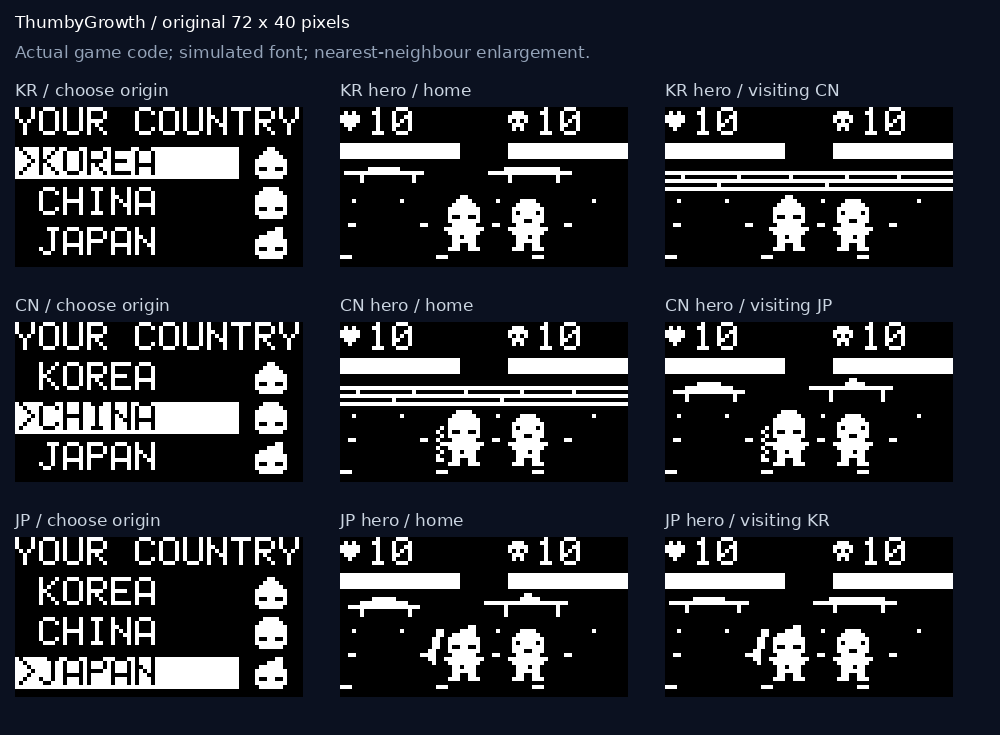
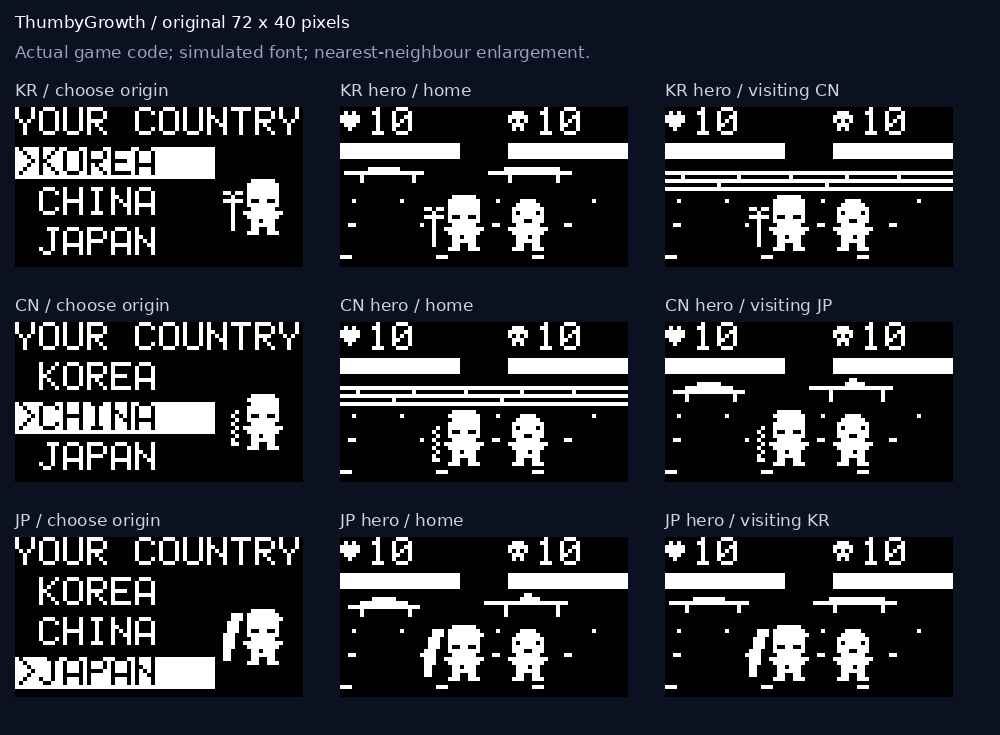
Round hero heads and distinguish long hair with bow, braid and ponytail

diff --git a/micropython/Thumby/ThumbyGrowth/ThumbyGrowth.py b/micropython/Thumby/ThumbyGrowth/ThumbyGrowth.py
@@ -17,9 +17,9 @@ from rules import (update_state, encode_save_data, decode_save_data,
 from scene_art import SCENE_BITMAPS
 
 # Shared 10x14 period fighters; simulation collision remains 6x7.
-HERO_HEADS = ((0x30,0x78,0xfc,0x1fe,0x1fe,0x132,0x1fe,0xfc),
-              (0x78,0xfc,0x1fe,0x1fe,0x1fe,0x132,0x1fe,0xfc),
-              (0xc,0x3c,0xfc,0x1fe,0x1fe,0x132,0x1fe,0xfc))
+HERO_HEADS = ((0xfc,0x1fe,0x1fe,0x1fe,0x1fe,0x132,0x1fe,0xfc),
+              (0xfc,0x1fe,0xfe,0x1fe,0x1fe,0x132,0x1fe,0xfc),
+              (0xfc,0x1fe,0x1ff,0x1fe,0x1fe,0x132,0x1fe,0xfc))
 HERO_HEAD = HERO_HEADS[0]
 FOE_HEAD = (0x0,0x78,0xfc,0x1fe,0x17a,0x1fe,0x1ce,0xfc)
 BODY_ROWS = (0x3ff,0x1fe,0xdc,0xfc,0xcc,0x1ce)
@@ -167,18 +167,23 @@ def fighter_positions(state,camera):
 
 
 def draw_hero_hair(display,region,x,y,rightward):
-    if region==0: return  # Topknot is already in the head rows.
     def rect(offset,dy,width,height,color=1):
         left=x-2-offset-width if rightward else x+8+offset
         scene_rect(display,left,y+dy,width,height,color)
-    rect(0,-6,4,12,0)
-    if region==1:
+    rect(0,-6,5,12,0)
+    if region==0:
+        # Long tied hair; a small butterfly bow distinguishes the daenggi.
+        rect(2,-2,1,8)
+        for dy in (-4,-2):
+            rect(0,dy,2,1);rect(3,dy,2,1)
+        rect(2,-3,1,1)
+    elif region==1:
         # A narrow long braid, alternating sides down to the shoulder.
-        for row in range(8): rect(row%2,-3+row,1,1)
-        rect(0,5,2,1)
+        for row in range(8): rect(1+row%2,-3+row,1,1)
+        rect(1,5,2,1)
     else:
-        # A higher, thicker ponytail with a shorter pointed end.
-        for offset,dy,width,height in ((0,-6,2,2),(1,-4,2,3),(2,-1,2,3),(2,2,1,1)):
+        # Thick high ponytail, hanging as long as the other two styles.
+        for offset,dy,width,height in ((0,-6,3,2),(1,-4,3,3),(2,-1,3,4),(3,3,2,3)):
             rect(offset,dy,width,height)
 
 
@@ -528,9 +533,11 @@ def draw_game(state):
             if selected:
                 display.drawFilledRectangle(0,y,72,8,1)
             display.drawText(('>' if selected else ' ')+('KOREA','CHINA','JAPAN')[region],0,y,0 if selected else 1)
-            if not state['route']:
-                display.drawFilledRectangle(56,y,16,8,0)
-                draw_rows(display,HERO_HEADS[region],59,y,10)
+        if not state['route']:
+            # A full figure shows the long back hair; the real route stays empty.
+            preview=dict(state,route=[choices[state['menu_selection']]])
+            display.drawFilledRectangle(50,10,22,30,0)
+            draw_fighter(display,preview,True,59,25)
         if len(choices)<3:
             display.drawText(status if status in ('SAVED','SAVE ERR') else 'B:SAVE',0,30,1)
     elif screen == 'safe' and state['progress'] >= GOAL_STAGES:

diff --git a/micropython/Thumby/ThumbyGrowth/test_hero_origin.py b/micropython/Thumby/ThumbyGrowth/test_hero_origin.py
@@ -23,6 +23,7 @@ class HeroOriginTests(unittest.TestCase):
             self.assertEqual(game.character_body(state,True),game.BODY_ROWS)
             stats.append((state['HP'],state['maxHP'],state['attack'],state['defense'],state['money']))
         self.assertEqual(len(set(game.HERO_HEADS)),3)
+        self.assertTrue(all(head[0]==0xfc and head[1]==0x1fe for head in game.HERO_HEADS))
         self.assertEqual(stats,[(10,10,2,0,0)]*3)
 
     def test_six_routes_and_save_load_preserve_first_country_not_destination(self):
@@ -55,18 +56,27 @@ class HeroOriginTests(unittest.TestCase):
                     else:pixels.difference_update(area)
                 versions.append(pixels)
             self.assertEqual({(61-x,y) for x,y in versions[0]},versions[1])
+            self.assertTrue(versions[0])
+            self.assertEqual(max(y for _,y in versions[0]),34)
             designs.append(frozenset(versions[0]))
         self.assertEqual(len(set(designs)),3)
         self.assertEqual(game.HERO_HEADS,original)
 
     def test_only_initial_country_menu_previews_different_hero_heads(self):
-        for state,expected in ((new_game_state(),3),(f.state(progress=5,route=[2]),0)):
+        for state,expected in ((new_game_state(),1),(f.state(progress=5,route=[2]),0)):
             with patch.object(game,'draw_rows',wraps=game.draw_rows) as rows:
                 game.draw_game(state)
                 heads=[c.args[1] for c in rows.call_args_list if c.args[1] in game.HERO_HEADS]
                 self.assertEqual(len(heads),expected)
         texts=[c.args[0] for c in game.thumby.display.drawText.call_args_list]
         self.assertIn('YOUR COUNTRY',texts);self.assertIn('NEXT COUNTRY',texts)
+        for region in range(3):
+            state=new_game_state();state['menu_selection']=region;before=deepcopy(state)
+            with patch.object(game,'draw_hero_hair',wraps=game.draw_hero_hair) as hair:
+                game.draw_game(state)
+                self.assertEqual(hair.call_args.args[1],region)
+            self.assertEqual(state,before)
+
 
     def test_damage_and_cutscenes_use_the_origin_hair(self):
         state=f.state(screen_state='battle',progress=10,route=[2,0,1],active_enemy=True,
